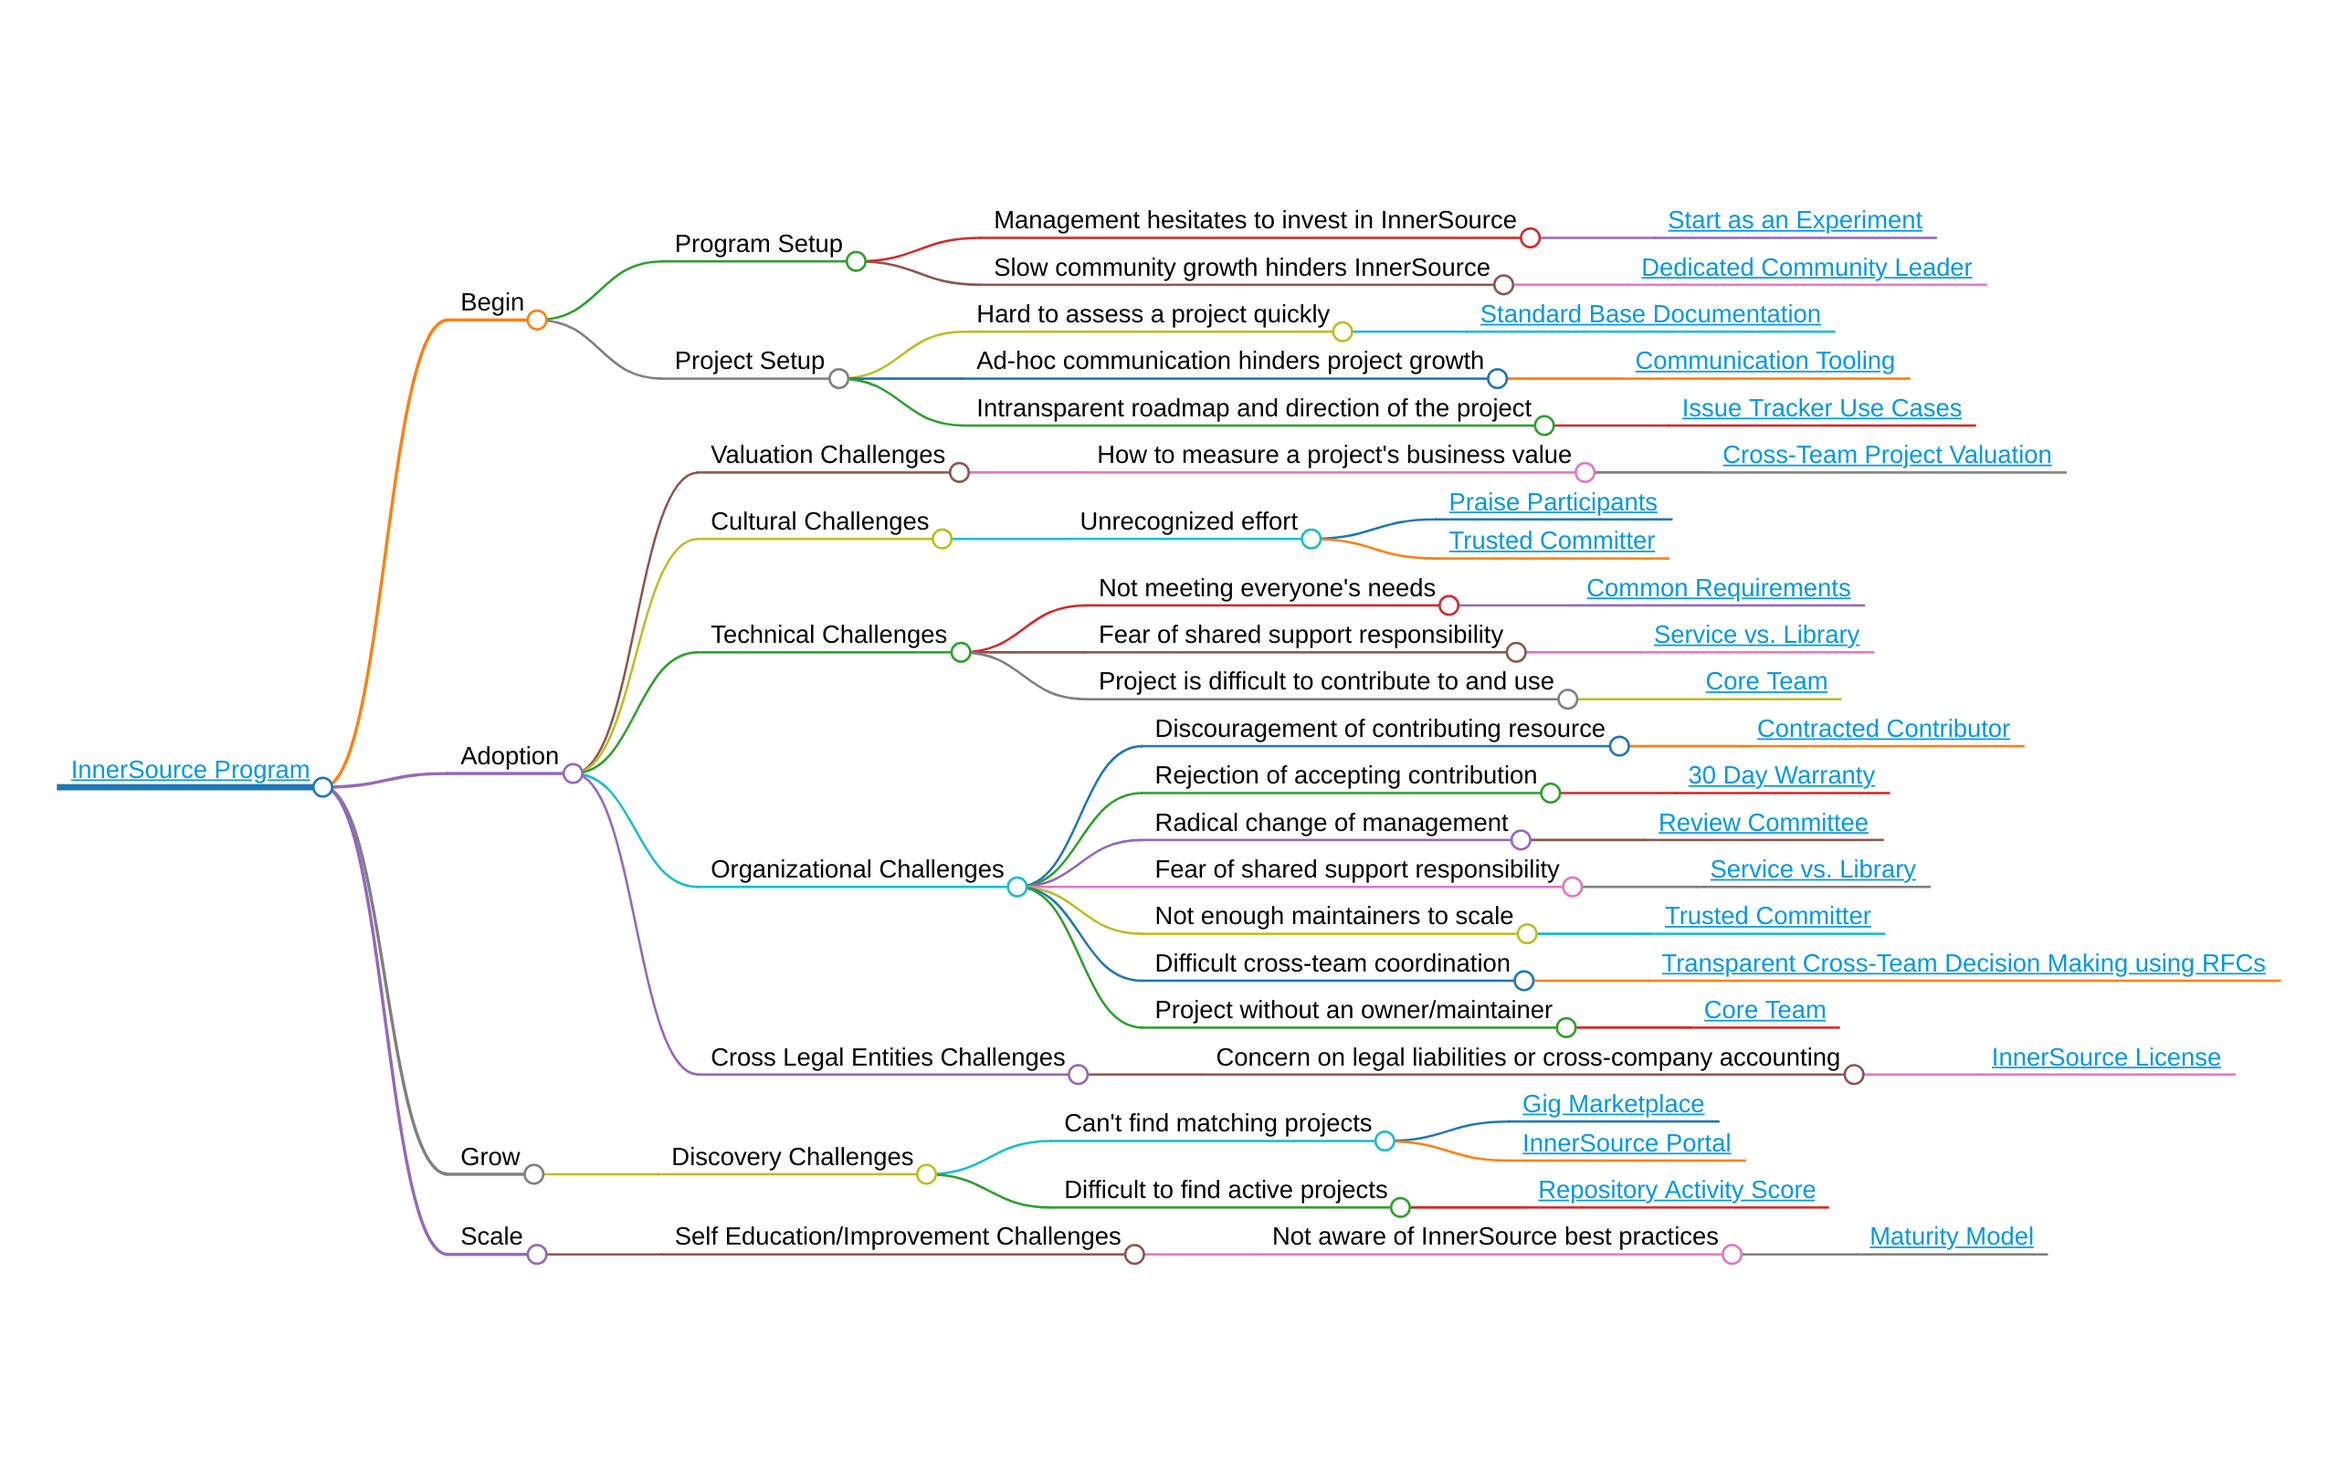
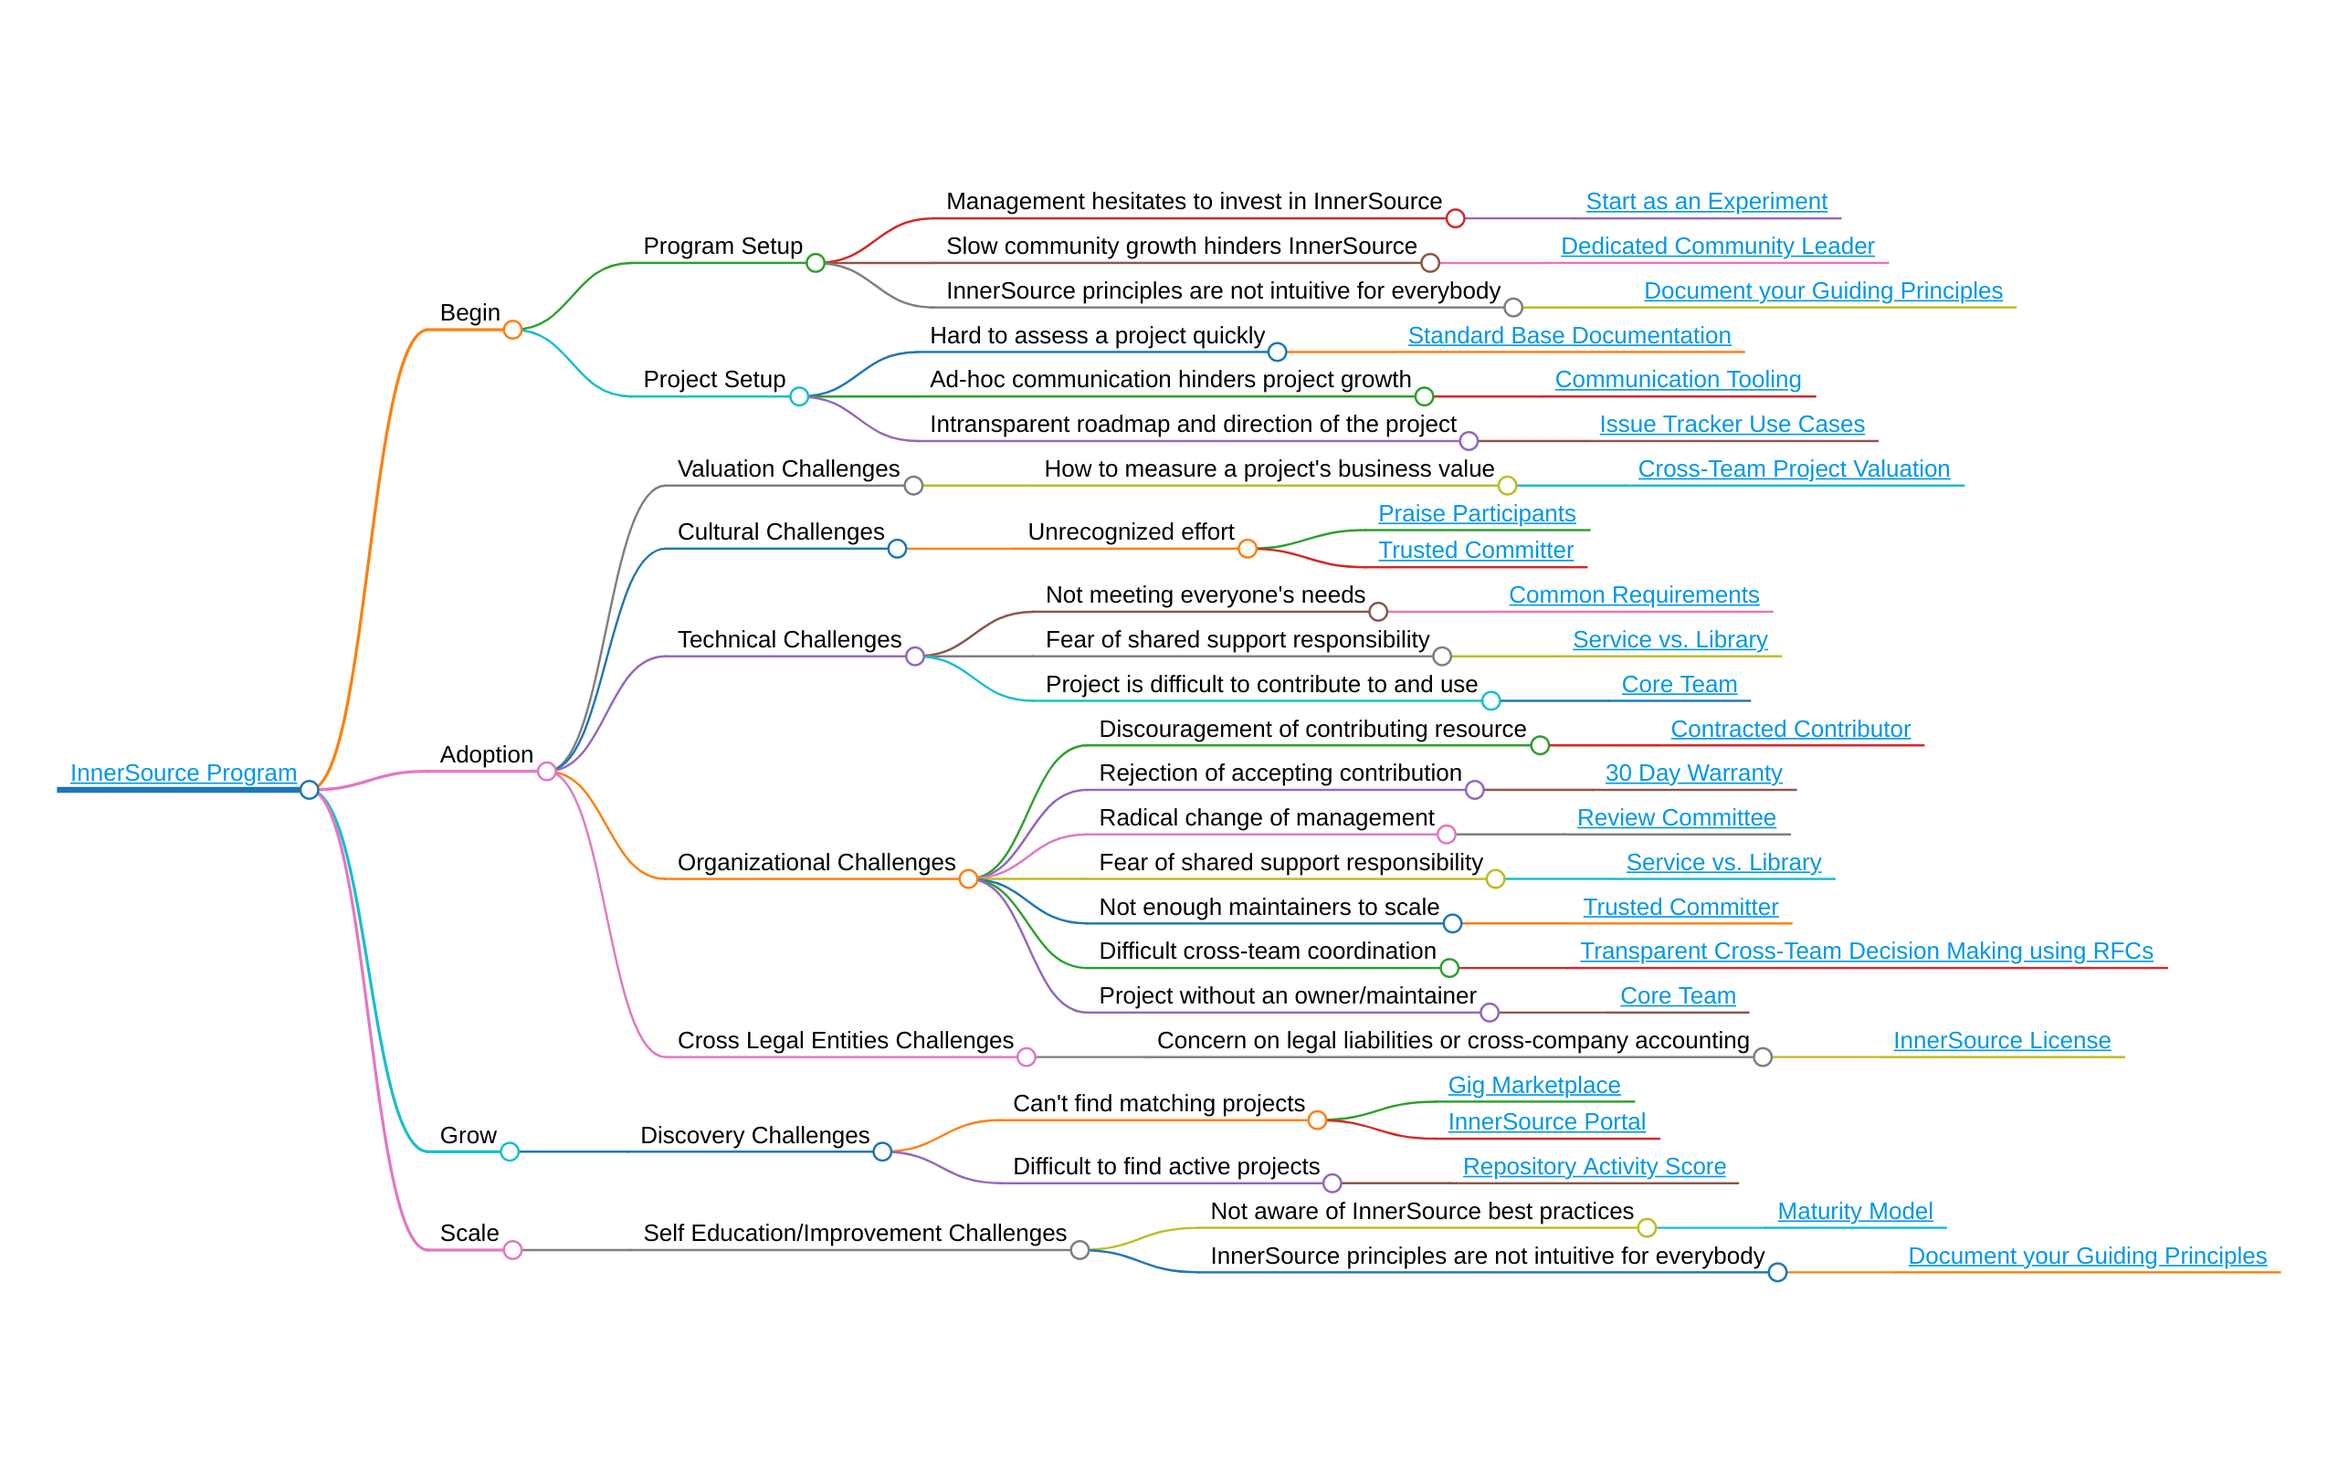
Re-creating markmap and screenshot

Changed region(s): [[0.1562, 0.125, 0.9688, 0.875], [0.0312, 0.4688, 0.1562, 0.625], [0.1562, 0.1875, 0.25, 0.375]]

diff --git a/pattern-categorization/innersource-program-mind-map.html b/pattern-categorization/innersource-program-mind-map.html
@@ -25,6 +25,6 @@
           Markmap
         } = getMarkmap();
         window.mm = Markmap.create('svg#mindmap', getOptions == null ? void 0 : getOptions(), data);
-      })(() => window.markmap,null,{"t":"heading","d":1,"p":{"lines":[0,1]},"v":"<a href=\"https://patterns.innersourcecommons.org/toc\">InnerSource Program</a>","c":[{"t":"heading","d":2,"p":{"lines":[2,3]},"v":"Begin","c":[{"t":"heading","d":3,"p":{"lines":[4,5]},"v":"Program Setup","c":[{"t":"heading","d":4,"p":{"lines":[6,7]},"v":"Management hesitates to invest in InnerSource","c":[{"t":"heading","d":5,"p":{"lines":[8,9]},"v":"<a href=\"https://patterns.innersourcecommons.org/p/start-as-experiment\">Start as an Experiment</a>"}]},{"t":"heading","d":4,"p":{"lines":[10,11]},"v":"Slow community growth hinders InnerSource","c":[{"t":"heading","d":5,"p":{"lines":[12,13]},"v":"<a href=\"https://patterns.innersourcecommons.org/p/dedicated-community-leader\">Dedicated Community Leader</a>"}]}]},{"t":"heading","d":3,"p":{"lines":[14,15]},"v":"Project Setup","c":[{"t":"heading","d":4,"p":{"lines":[16,17]},"v":"Hard to assess a project quickly","c":[{"t":"heading","d":5,"p":{"lines":[18,19]},"v":"<a href=\"https://patterns.innersourcecommons.org/p/base-documentation\">Standard Base Documentation</a>"}]},{"t":"heading","d":4,"p":{"lines":[20,21]},"v":"Ad-hoc communication hinders project growth","c":[{"t":"heading","d":5,"p":{"lines":[22,23]},"v":"<a href=\"https://patterns.innersourcecommons.org/p/communication-tooling\">Communication Tooling</a>"}]},{"t":"heading","d":4,"p":{"lines":[24,25]},"v":"Intransparent roadmap and direction of the project","c":[{"t":"heading","d":5,"p":{"lines":[26,27]},"v":"<a href=\"https://patterns.innersourcecommons.org/p/issue-tracker\">Issue Tracker Use Cases</a>"}]}]}]},{"t":"heading","d":2,"p":{"lines":[28,29]},"v":"Adoption","c":[{"t":"heading","d":3,"p":{"lines":[30,31]},"v":"Valuation Challenges","c":[{"t":"heading","d":4,"p":{"lines":[32,33]},"v":"How to measure a project's business value","c":[{"t":"heading","d":5,"p":{"lines":[34,35]},"v":"<a href=\"https://patterns.innersourcecommons.org/p/crossteam-project-valuation\">Cross-Team Project Valuation</a>"}]}]},{"t":"heading","d":3,"p":{"lines":[36,37]},"v":"Cultural Challenges","c":[{"t":"heading","d":4,"p":{"lines":[38,39]},"v":"Unrecognized effort","c":[{"t":"heading","d":5,"p":{"lines":[40,41]},"v":"<a href=\"https://patterns.innersourcecommons.org/p/praise-participants\">Praise Participants</a>"},{"t":"heading","d":5,"p":{"lines":[42,43]},"v":"<a href=\"https://patterns.innersourcecommons.org/p/trusted-committer\">Trusted Committer</a>"}]}]},{"t":"heading","d":3,"p":{"lines":[44,45]},"v":"Technical Challenges","c":[{"t":"heading","d":4,"p":{"lines":[46,47]},"v":"Not meeting everyone's needs","c":[{"t":"heading","d":5,"p":{"lines":[48,49]},"v":"<a href=\"https://patterns.innersourcecommons.org/p/common-requirements\">Common Requirements</a>"}]},{"t":"heading","d":4,"p":{"lines":[50,51]},"v":"Fear of shared support responsibility","c":[{"t":"heading","d":5,"p":{"lines":[52,53]},"v":"<a href=\"https://patterns.innersourcecommons.org/p/service-vs-library\">Service vs. Library</a>"}]},{"t":"heading","d":4,"p":{"lines":[54,55]},"v":"Project is difficult to contribute to and use","c":[{"t":"heading","d":5,"p":{"lines":[56,57]},"v":"<a href=\"https://patterns.innersourcecommons.org/p/core-team\">Core Team</a>"}]}]},{"t":"heading","d":3,"p":{"lines":[58,59]},"v":"Organizational Challenges","c":[{"t":"heading","d":4,"p":{"lines":[60,61]},"v":"Discouragement of contributing resource","c":[{"t":"heading","d":5,"p":{"lines":[62,63]},"v":"<a href=\"https://patterns.innersourcecommons.org/p/contracted-contributor\">Contracted Contributor</a>"}]},{"t":"heading","d":4,"p":{"lines":[64,65]},"v":"Rejection of accepting contribution","c":[{"t":"heading","d":5,"p":{"lines":[66,67]},"v":"<a href=\"https://patterns.innersourcecommons.org/p/30-day-warranty\">30 Day Warranty</a>"}]},{"t":"heading","d":4,"p":{"lines":[68,69]},"v":"Radical change of management","c":[{"t":"heading","d":5,"p":{"lines":[70,71]},"v":"<a href=\"https://patterns.innersourcecommons.org/p/review-committee\">Review Committee</a>"}]},{"t":"heading","d":4,"p":{"lines":[72,73]},"v":"Fear of shared support responsibility","c":[{"t":"heading","d":5,"p":{"lines":[74,75]},"v":"<a href=\"https://patterns.innersourcecommons.org/p/service-vs-library\">Service vs. Library</a>"}]},{"t":"heading","d":4,"p":{"lines":[76,77]},"v":"Not enough maintainers to scale","c":[{"t":"heading","d":5,"p":{"lines":[78,79]},"v":"<a href=\"https://patterns.innersourcecommons.org/p/trusted-committer\">Trusted Committer</a>"}]},{"t":"heading","d":4,"p":{"lines":[80,81]},"v":"Difficult cross-team coordination","c":[{"t":"heading","d":5,"p":{"lines":[82,83]},"v":"<a href=\"https://patterns.innersourcecommons.org/p/transparent-cross-team-decision-making-using-rfcs\">Transparent Cross-Team Decision Making using RFCs</a>"}]},{"t":"heading","d":4,"p":{"lines":[84,85]},"v":"Project without an owner/maintainer","c":[{"t":"heading","d":5,"p":{"lines":[86,87]},"v":"<a href=\"https://patterns.innersourcecommons.org/p/core-team\">Core Team</a>"}]}]},{"t":"heading","d":3,"p":{"lines":[88,89]},"v":"Cross Legal Entities Challenges","c":[{"t":"heading","d":4,"p":{"lines":[90,91]},"v":"Concern on legal liabilities or cross-company accounting","c":[{"t":"heading","d":5,"p":{"lines":[92,93]},"v":"<a href=\"https://patterns.innersourcecommons.org/p/innersource-license\">InnerSource License</a>"}]}]}]},{"t":"heading","d":2,"p":{"lines":[94,95]},"v":"Grow","c":[{"t":"heading","d":3,"p":{"lines":[96,97]},"v":"Discovery Challenges","c":[{"t":"heading","d":4,"p":{"lines":[98,99]},"v":"Can't find matching projects","c":[{"t":"heading","d":5,"p":{"lines":[100,101]},"v":"<a href=\"https://patterns.innersourcecommons.org/p/gig-marketplace\">Gig Marketplace</a>"},{"t":"heading","d":5,"p":{"lines":[102,103]},"v":"<a href=\"https://patterns.innersourcecommons.org/p/innersource-portal\">InnerSource Portal</a>"}]},{"t":"heading","d":4,"p":{"lines":[104,105]},"v":"Difficult to find active projects","c":[{"t":"heading","d":5,"p":{"lines":[106,107]},"v":"<a href=\"https://patterns.innersourcecommons.org/p/repository-activity-score\">Repository Activity Score</a>"}]}]}]},{"t":"heading","d":2,"p":{"lines":[108,109]},"v":"Scale","c":[{"t":"heading","d":3,"p":{"lines":[110,111]},"v":"Self Education/Improvement Challenges","c":[{"t":"heading","d":4,"p":{"lines":[112,113]},"v":"Not aware of InnerSource best practices","c":[{"t":"heading","d":5,"p":{"lines":[114,115]},"v":"<a href=\"https://patterns.innersourcecommons.org/p/maturity-model\">Maturity Model</a>"}]}]}]}]})</script>
+      })(() => window.markmap,null,{"t":"heading","d":1,"p":{"lines":[0,1]},"v":"<a href=\"https://patterns.innersourcecommons.org/toc\">InnerSource Program</a>","c":[{"t":"heading","d":2,"p":{"lines":[2,3]},"v":"Begin","c":[{"t":"heading","d":3,"p":{"lines":[4,5]},"v":"Program Setup","c":[{"t":"heading","d":4,"p":{"lines":[6,7]},"v":"Management hesitates to invest in InnerSource","c":[{"t":"heading","d":5,"p":{"lines":[8,9]},"v":"<a href=\"https://patterns.innersourcecommons.org/p/start-as-experiment\">Start as an Experiment</a>"}]},{"t":"heading","d":4,"p":{"lines":[10,11]},"v":"Slow community growth hinders InnerSource","c":[{"t":"heading","d":5,"p":{"lines":[12,13]},"v":"<a href=\"https://patterns.innersourcecommons.org/p/dedicated-community-leader\">Dedicated Community Leader</a>"}]},{"t":"heading","d":4,"p":{"lines":[14,15]},"v":"InnerSource principles are not intuitive for everybody","c":[{"t":"heading","d":5,"p":{"lines":[16,17]},"v":"<a href=\"https://patterns.innersourcecommons.org/p/document-your-guiding-principles\">Document your Guiding Principles</a>"}]}]},{"t":"heading","d":3,"p":{"lines":[18,19]},"v":"Project Setup","c":[{"t":"heading","d":4,"p":{"lines":[20,21]},"v":"Hard to assess a project quickly","c":[{"t":"heading","d":5,"p":{"lines":[22,23]},"v":"<a href=\"https://patterns.innersourcecommons.org/p/base-documentation\">Standard Base Documentation</a>"}]},{"t":"heading","d":4,"p":{"lines":[24,25]},"v":"Ad-hoc communication hinders project growth","c":[{"t":"heading","d":5,"p":{"lines":[26,27]},"v":"<a href=\"https://patterns.innersourcecommons.org/p/communication-tooling\">Communication Tooling</a>"}]},{"t":"heading","d":4,"p":{"lines":[28,29]},"v":"Intransparent roadmap and direction of the project","c":[{"t":"heading","d":5,"p":{"lines":[30,31]},"v":"<a href=\"https://patterns.innersourcecommons.org/p/issue-tracker\">Issue Tracker Use Cases</a>"}]}]}]},{"t":"heading","d":2,"p":{"lines":[32,33]},"v":"Adoption","c":[{"t":"heading","d":3,"p":{"lines":[34,35]},"v":"Valuation Challenges","c":[{"t":"heading","d":4,"p":{"lines":[36,37]},"v":"How to measure a project's business value","c":[{"t":"heading","d":5,"p":{"lines":[38,39]},"v":"<a href=\"https://patterns.innersourcecommons.org/p/crossteam-project-valuation\">Cross-Team Project Valuation</a>"}]}]},{"t":"heading","d":3,"p":{"lines":[40,41]},"v":"Cultural Challenges","c":[{"t":"heading","d":4,"p":{"lines":[42,43]},"v":"Unrecognized effort","c":[{"t":"heading","d":5,"p":{"lines":[44,45]},"v":"<a href=\"https://patterns.innersourcecommons.org/p/praise-participants\">Praise Participants</a>"},{"t":"heading","d":5,"p":{"lines":[46,47]},"v":"<a href=\"https://patterns.innersourcecommons.org/p/trusted-committer\">Trusted Committer</a>"}]}]},{"t":"heading","d":3,"p":{"lines":[48,49]},"v":"Technical Challenges","c":[{"t":"heading","d":4,"p":{"lines":[50,51]},"v":"Not meeting everyone's needs","c":[{"t":"heading","d":5,"p":{"lines":[52,53]},"v":"<a href=\"https://patterns.innersourcecommons.org/p/common-requirements\">Common Requirements</a>"}]},{"t":"heading","d":4,"p":{"lines":[54,55]},"v":"Fear of shared support responsibility","c":[{"t":"heading","d":5,"p":{"lines":[56,57]},"v":"<a href=\"https://patterns.innersourcecommons.org/p/service-vs-library\">Service vs. Library</a>"}]},{"t":"heading","d":4,"p":{"lines":[58,59]},"v":"Project is difficult to contribute to and use","c":[{"t":"heading","d":5,"p":{"lines":[60,61]},"v":"<a href=\"https://patterns.innersourcecommons.org/p/core-team\">Core Team</a>"}]}]},{"t":"heading","d":3,"p":{"lines":[62,63]},"v":"Organizational Challenges","c":[{"t":"heading","d":4,"p":{"lines":[64,65]},"v":"Discouragement of contributing resource","c":[{"t":"heading","d":5,"p":{"lines":[66,67]},"v":"<a href=\"https://patterns.innersourcecommons.org/p/contracted-contributor\">Contracted Contributor</a>"}]},{"t":"heading","d":4,"p":{"lines":[68,69]},"v":"Rejection of accepting contribution","c":[{"t":"heading","d":5,"p":{"lines":[70,71]},"v":"<a href=\"https://patterns.innersourcecommons.org/p/30-day-warranty\">30 Day Warranty</a>"}]},{"t":"heading","d":4,"p":{"lines":[72,73]},"v":"Radical change of management","c":[{"t":"heading","d":5,"p":{"lines":[74,75]},"v":"<a href=\"https://patterns.innersourcecommons.org/p/review-committee\">Review Committee</a>"}]},{"t":"heading","d":4,"p":{"lines":[76,77]},"v":"Fear of shared support responsibility","c":[{"t":"heading","d":5,"p":{"lines":[78,79]},"v":"<a href=\"https://patterns.innersourcecommons.org/p/service-vs-library\">Service vs. Library</a>"}]},{"t":"heading","d":4,"p":{"lines":[80,81]},"v":"Not enough maintainers to scale","c":[{"t":"heading","d":5,"p":{"lines":[82,83]},"v":"<a href=\"https://patterns.innersourcecommons.org/p/trusted-committer\">Trusted Committer</a>"}]},{"t":"heading","d":4,"p":{"lines":[84,85]},"v":"Difficult cross-team coordination","c":[{"t":"heading","d":5,"p":{"lines":[86,87]},"v":"<a href=\"https://patterns.innersourcecommons.org/p/transparent-cross-team-decision-making-using-rfcs\">Transparent Cross-Team Decision Making using RFCs</a>"}]},{"t":"heading","d":4,"p":{"lines":[88,89]},"v":"Project without an owner/maintainer","c":[{"t":"heading","d":5,"p":{"lines":[90,91]},"v":"<a href=\"https://patterns.innersourcecommons.org/p/core-team\">Core Team</a>"}]}]},{"t":"heading","d":3,"p":{"lines":[92,93]},"v":"Cross Legal Entities Challenges","c":[{"t":"heading","d":4,"p":{"lines":[94,95]},"v":"Concern on legal liabilities or cross-company accounting","c":[{"t":"heading","d":5,"p":{"lines":[96,97]},"v":"<a href=\"https://patterns.innersourcecommons.org/p/innersource-license\">InnerSource License</a>"}]}]}]},{"t":"heading","d":2,"p":{"lines":[98,99]},"v":"Grow","c":[{"t":"heading","d":3,"p":{"lines":[100,101]},"v":"Discovery Challenges","c":[{"t":"heading","d":4,"p":{"lines":[102,103]},"v":"Can't find matching projects","c":[{"t":"heading","d":5,"p":{"lines":[104,105]},"v":"<a href=\"https://patterns.innersourcecommons.org/p/gig-marketplace\">Gig Marketplace</a>"},{"t":"heading","d":5,"p":{"lines":[106,107]},"v":"<a href=\"https://patterns.innersourcecommons.org/p/innersource-portal\">InnerSource Portal</a>"}]},{"t":"heading","d":4,"p":{"lines":[108,109]},"v":"Difficult to find active projects","c":[{"t":"heading","d":5,"p":{"lines":[110,111]},"v":"<a href=\"https://patterns.innersourcecommons.org/p/repository-activity-score\">Repository Activity Score</a>"}]}]}]},{"t":"heading","d":2,"p":{"lines":[112,113]},"v":"Scale","c":[{"t":"heading","d":3,"p":{"lines":[114,115]},"v":"Self Education/Improvement Challenges","c":[{"t":"heading","d":4,"p":{"lines":[116,117]},"v":"Not aware of InnerSource best practices","c":[{"t":"heading","d":5,"p":{"lines":[118,119]},"v":"<a href=\"https://patterns.innersourcecommons.org/p/maturity-model\">Maturity Model</a>"}]},{"t":"heading","d":4,"p":{"lines":[120,121]},"v":"InnerSource principles are not intuitive for everybody","c":[{"t":"heading","d":5,"p":{"lines":[122,123]},"v":"<a href=\"https://patterns.innersourcecommons.org/p/document-your-guiding-principles\">Document your Guiding Principles</a>"}]}]}]}]})</script>
 </body>
 </html>
